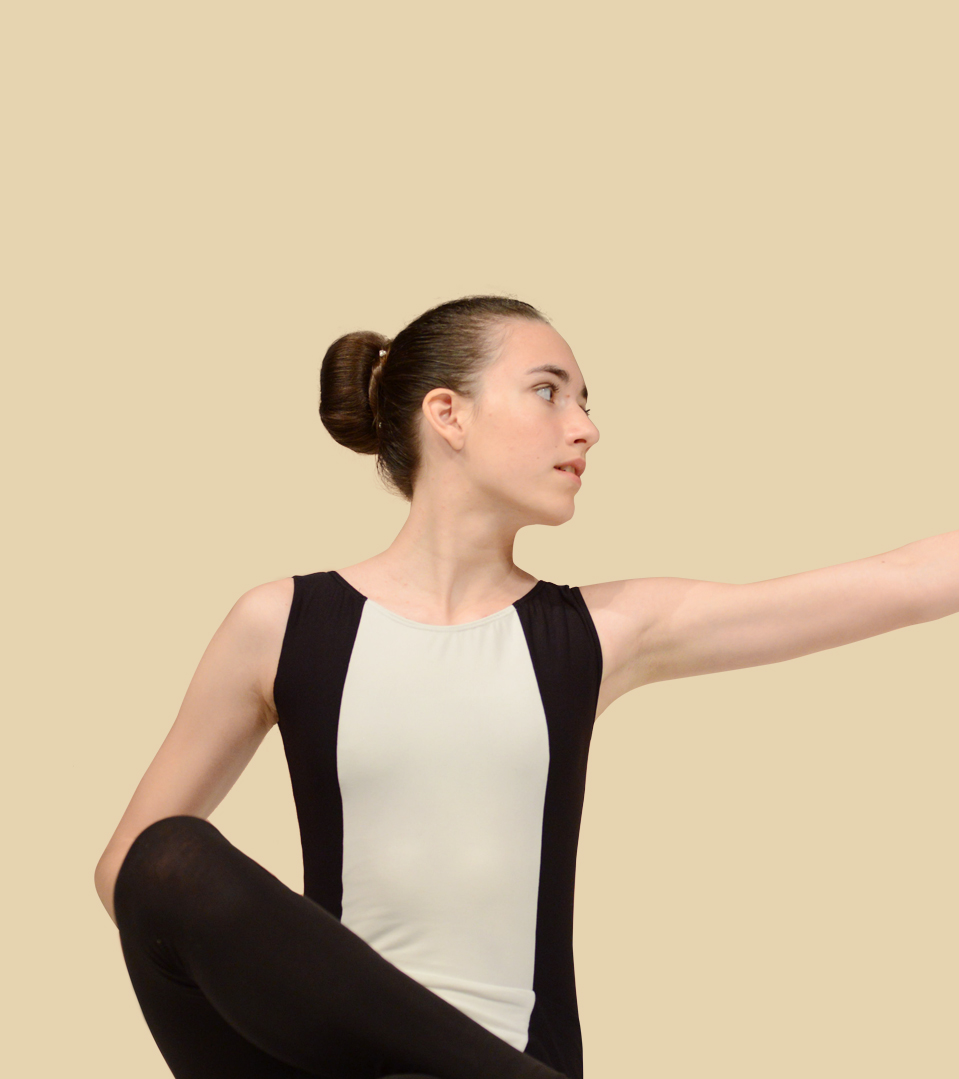
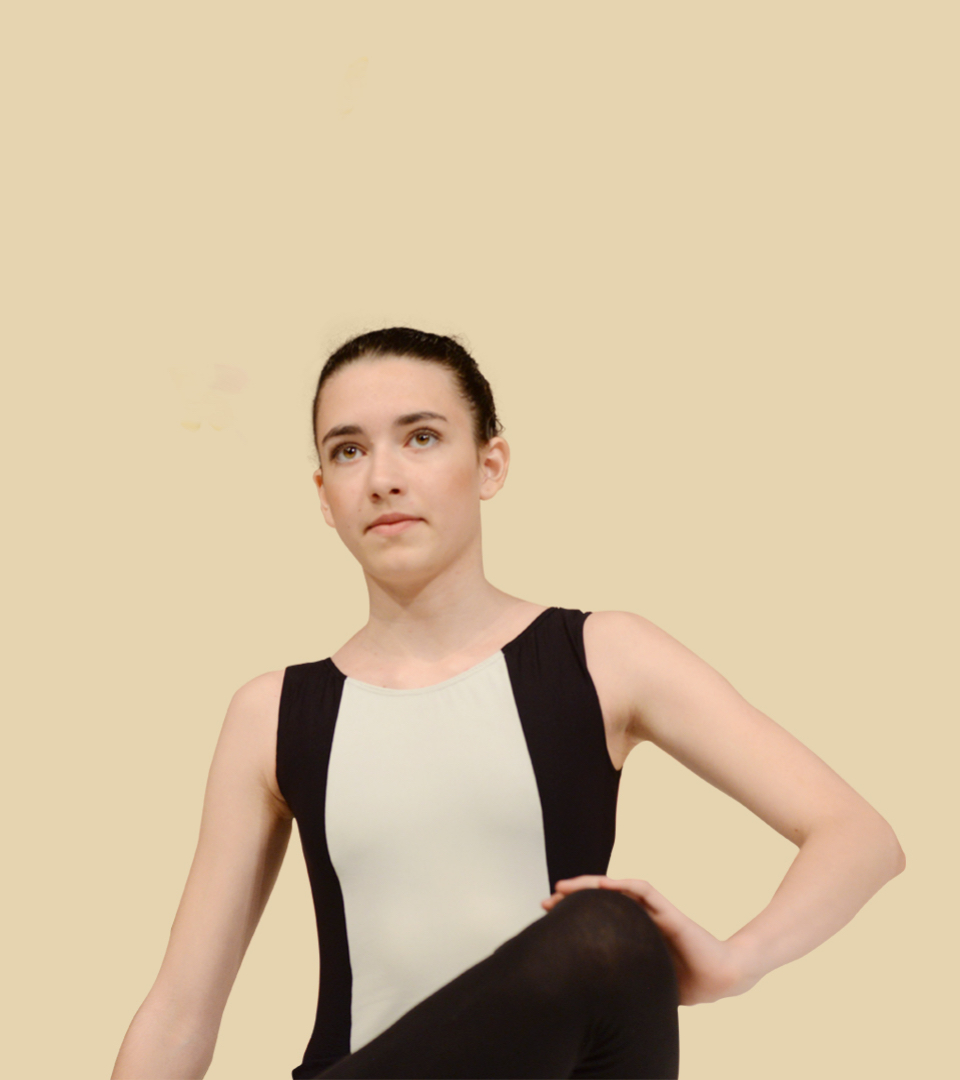
change landing pictures

Changed region(s): [[0.0907, 0.2753, 1.0, 1.0], [0.8165, 0.6728, 0.8467, 0.7034]]

diff --git a/src/assets/css/landing.css b/src/assets/css/landing.css
@@ -584,7 +584,7 @@
   }
 }
 .right.three {
-  background-image: url("../img/landing_bg_3.png");
+  background-image: url("../img/landing_bg_3.jpg");
 }
 .right.four {
   background: var(--color-gray-3);
@@ -608,7 +608,7 @@
   background-image: url("../img/landing_sub/five-three.jpg");
 }
 .right.five.no-four {
-  background-image: url("../img/landing_sub/five-four.jpg");
+  background-image: url("../img/landing_sub/five-four.png");
 }
 .right.five.no-five {
   background-image: url("../img/landing_sub/five-five.jpg");
@@ -800,6 +800,7 @@
     background-color: var(--color-gray-new-0);
     background-position: center;
     height: 50vh;
+    background-image: url("../img/landing_bg_1_mobil.jpg");
   }
   .mobile-card.one {
     order: 3;
